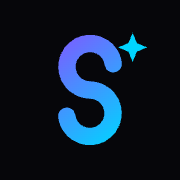
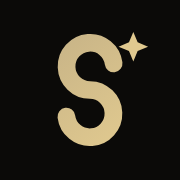
chore: regenerate social images for sand palette
The Open Graph previews and the iOS icon still carried the violet and cyan palette, so every shared link showed the old brand. Re-render them from the templates in docs/og, and keep those templates in the repo so the next palette change can regenerate the assets with the same command.

Changed region(s): [[0.3056, 0.1667, 0.8333, 0.8333]]

diff --git a/docs/og/es.html b/docs/og/es.html
@@ -1,0 +1,132 @@
+<!doctype html>
+<html lang="es">
+  <head>
+    <meta charset="utf-8" />
+    <style>
+      @font-face {
+        font-family: "Unbounded";
+        src: url("../node_modules/@fontsource-variable/unbounded/files/unbounded-latin-wght-normal.woff2") format("woff2");
+        font-weight: 200 900;
+      }
+      @font-face {
+        font-family: "Inter";
+        src: url("../node_modules/@fontsource-variable/inter/files/inter-latin-wght-normal.woff2") format("woff2");
+        font-weight: 100 900;
+      }
+      @font-face {
+        font-family: "JetBrains Mono";
+        src: url("../node_modules/@fontsource-variable/jetbrains-mono/files/jetbrains-mono-latin-wght-normal.woff2") format("woff2");
+        font-weight: 100 800;
+      }
+
+      * { margin: 0; padding: 0; box-sizing: border-box; }
+
+      body {
+        width: 1200px;
+        height: 630px;
+        overflow: hidden;
+        background: #0b0a08;
+        color: #f3ede1;
+        font-family: "Inter", sans-serif;
+        position: relative;
+      }
+
+      .bloom {
+        position: absolute;
+        width: 760px;
+        height: 760px;
+        right: -180px;
+        bottom: -300px;
+        border-radius: 50%;
+        background: radial-gradient(circle, rgb(200 180 135 / 0.16), transparent 68%);
+      }
+
+      .ring {
+        position: absolute;
+        right: 40px;
+        top: 96px;
+        width: 380px;
+        height: 380px;
+        border-radius: 50%;
+        border: 1px solid rgb(200 180 135 / 0.18);
+      }
+
+      .frame {
+        position: relative;
+        height: 100%;
+        padding: 68px 72px;
+        display: flex;
+        flex-direction: column;
+      }
+
+      .brand { display: flex; align-items: center; gap: 12px; }
+      .brand span {
+        font-family: "Unbounded", sans-serif;
+        font-weight: 700;
+        font-size: 30px;
+        letter-spacing: -0.04em;
+      }
+
+      .eyebrow {
+        margin-top: 74px;
+        font-family: "JetBrains Mono", monospace;
+        font-size: 15px;
+        letter-spacing: 0.28em;
+        text-transform: uppercase;
+        color: #9a9083;
+      }
+
+      h1 {
+        margin-top: 22px;
+        font-family: "Unbounded", sans-serif;
+        font-weight: 600;
+        font-size: 82px;
+        line-height: 1.04;
+        letter-spacing: -0.03em;
+      }
+
+      .grad {
+        background: linear-gradient(115deg, #e0c98f 0%, #c8b487 48%, #a8895c 100%);
+        -webkit-background-clip: text;
+        background-clip: text;
+        color: transparent;
+      }
+
+      .lead {
+        margin-top: 30px;
+        font-size: 24px;
+        color: #9a9083;
+        max-width: 620px;
+      }
+    </style>
+  </head>
+  <body>
+    <div class="bloom"></div>
+    <div class="ring"></div>
+    <div class="frame">
+      <div class="brand">
+        <svg viewBox="0 0 64 64" width="34" height="34">
+          <defs>
+            <linearGradient id="g" x1="12" y1="8" x2="52" y2="56" gradientUnits="userSpaceOnUse">
+              <stop offset="0" stop-color="#c8b487" />
+              <stop offset="1" stop-color="#e0c98f" />
+            </linearGradient>
+          </defs>
+          <path d="M44 18.5A12 12 0 1 0 32 32a12 12 0 1 1-12 13.5" fill="none" stroke="url(#g)" stroke-width="9" stroke-linecap="round" />
+          <path d="M54 2.5l2.2 5.3L61.5 10l-5.3 2.2L54 17.5l-2.2-5.3L46.5 10l5.3-2.2Z" fill="#e0c98f" />
+        </svg>
+        <span>sbravo</span>
+      </div>
+
+      <p class="eyebrow">Hub de software gratis</p>
+
+      <h1>
+        Herramientas<br />
+        que se sienten<br />
+        <span class="grad">como magia.</span>
+      </h1>
+
+      <p class="lead">Apps livianas, changelogs honestos y cero relleno.</p>
+    </div>
+  </body>
+</html>

diff --git a/docs/og/en.html b/docs/og/en.html
@@ -1,0 +1,132 @@
+<!doctype html>
+<html lang="en">
+  <head>
+    <meta charset="utf-8" />
+    <style>
+      @font-face {
+        font-family: "Unbounded";
+        src: url("../node_modules/@fontsource-variable/unbounded/files/unbounded-latin-wght-normal.woff2") format("woff2");
+        font-weight: 200 900;
+      }
+      @font-face {
+        font-family: "Inter";
+        src: url("../node_modules/@fontsource-variable/inter/files/inter-latin-wght-normal.woff2") format("woff2");
+        font-weight: 100 900;
+      }
+      @font-face {
+        font-family: "JetBrains Mono";
+        src: url("../node_modules/@fontsource-variable/jetbrains-mono/files/jetbrains-mono-latin-wght-normal.woff2") format("woff2");
+        font-weight: 100 800;
+      }
+
+      * { margin: 0; padding: 0; box-sizing: border-box; }
+
+      body {
+        width: 1200px;
+        height: 630px;
+        overflow: hidden;
+        background: #0b0a08;
+        color: #f3ede1;
+        font-family: "Inter", sans-serif;
+        position: relative;
+      }
+
+      .bloom {
+        position: absolute;
+        width: 760px;
+        height: 760px;
+        right: -180px;
+        bottom: -300px;
+        border-radius: 50%;
+        background: radial-gradient(circle, rgb(200 180 135 / 0.16), transparent 68%);
+      }
+
+      .ring {
+        position: absolute;
+        right: 40px;
+        top: 96px;
+        width: 380px;
+        height: 380px;
+        border-radius: 50%;
+        border: 1px solid rgb(200 180 135 / 0.18);
+      }
+
+      .frame {
+        position: relative;
+        height: 100%;
+        padding: 68px 72px;
+        display: flex;
+        flex-direction: column;
+      }
+
+      .brand { display: flex; align-items: center; gap: 12px; }
+      .brand span {
+        font-family: "Unbounded", sans-serif;
+        font-weight: 700;
+        font-size: 30px;
+        letter-spacing: -0.04em;
+      }
+
+      .eyebrow {
+        margin-top: 74px;
+        font-family: "JetBrains Mono", monospace;
+        font-size: 15px;
+        letter-spacing: 0.28em;
+        text-transform: uppercase;
+        color: #9a9083;
+      }
+
+      h1 {
+        margin-top: 22px;
+        font-family: "Unbounded", sans-serif;
+        font-weight: 600;
+        font-size: 82px;
+        line-height: 1.04;
+        letter-spacing: -0.03em;
+      }
+
+      .grad {
+        background: linear-gradient(115deg, #e0c98f 0%, #c8b487 48%, #a8895c 100%);
+        -webkit-background-clip: text;
+        background-clip: text;
+        color: transparent;
+      }
+
+      .lead {
+        margin-top: 30px;
+        font-size: 24px;
+        color: #9a9083;
+        max-width: 620px;
+      }
+    </style>
+  </head>
+  <body>
+    <div class="bloom"></div>
+    <div class="ring"></div>
+    <div class="frame">
+      <div class="brand">
+        <svg viewBox="0 0 64 64" width="34" height="34">
+          <defs>
+            <linearGradient id="g" x1="12" y1="8" x2="52" y2="56" gradientUnits="userSpaceOnUse">
+              <stop offset="0" stop-color="#c8b487" />
+              <stop offset="1" stop-color="#e0c98f" />
+            </linearGradient>
+          </defs>
+          <path d="M44 18.5A12 12 0 1 0 32 32a12 12 0 1 1-12 13.5" fill="none" stroke="url(#g)" stroke-width="9" stroke-linecap="round" />
+          <path d="M54 2.5l2.2 5.3L61.5 10l-5.3 2.2L54 17.5l-2.2-5.3L46.5 10l5.3-2.2Z" fill="#e0c98f" />
+        </svg>
+        <span>sbravo</span>
+      </div>
+
+      <p class="eyebrow">Free software hub</p>
+
+      <h1>
+        Tools that<br />
+        feel like<br />
+        <span class="grad">magic.</span>
+      </h1>
+
+      <p class="lead">Lightweight apps, honest changelogs, zero bloat.</p>
+    </div>
+  </body>
+</html>

diff --git a/docs/og/icon.html b/docs/og/icon.html
@@ -1,0 +1,28 @@
+<!doctype html>
+<html>
+  <head>
+    <meta charset="utf-8" />
+    <style>
+      * { margin: 0; padding: 0; }
+      body {
+        width: 180px;
+        height: 180px;
+        background: #0b0a08;
+        display: grid;
+        place-items: center;
+      }
+    </style>
+  </head>
+  <body>
+    <svg viewBox="0 0 64 64" width="126" height="126">
+      <defs>
+        <linearGradient id="g" x1="12" y1="8" x2="52" y2="56" gradientUnits="userSpaceOnUse">
+          <stop offset="0" stop-color="#c8b487" />
+          <stop offset="1" stop-color="#e0c98f" />
+        </linearGradient>
+      </defs>
+      <path d="M44 18.5A12 12 0 1 0 32 32a12 12 0 1 1-12 13.5" fill="none" stroke="url(#g)" stroke-width="9" stroke-linecap="round" />
+      <path d="M54 2.5l2.2 5.3L61.5 10l-5.3 2.2L54 17.5l-2.2-5.3L46.5 10l5.3-2.2Z" fill="#e0c98f" />
+    </svg>
+  </body>
+</html>
